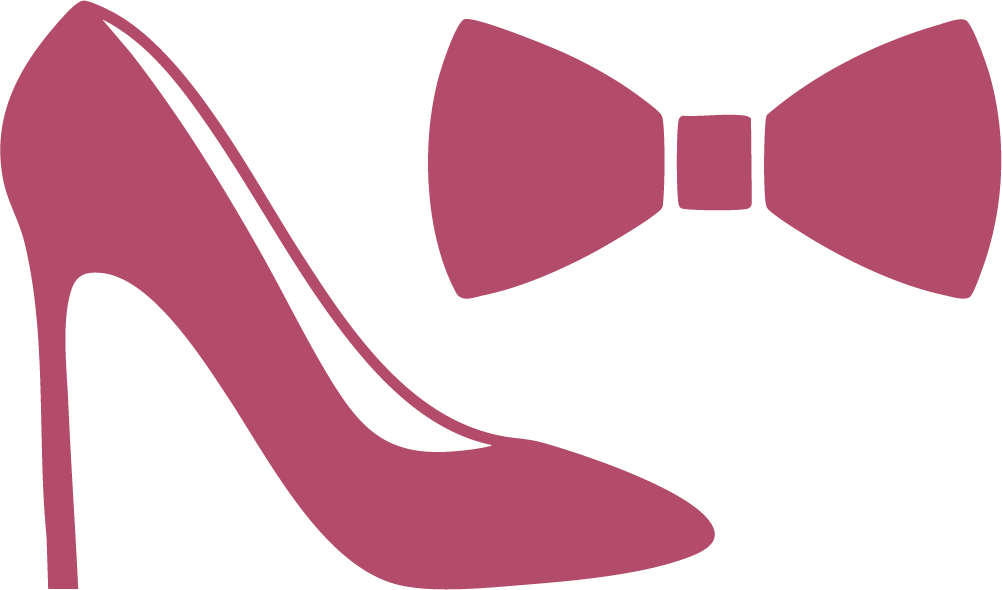
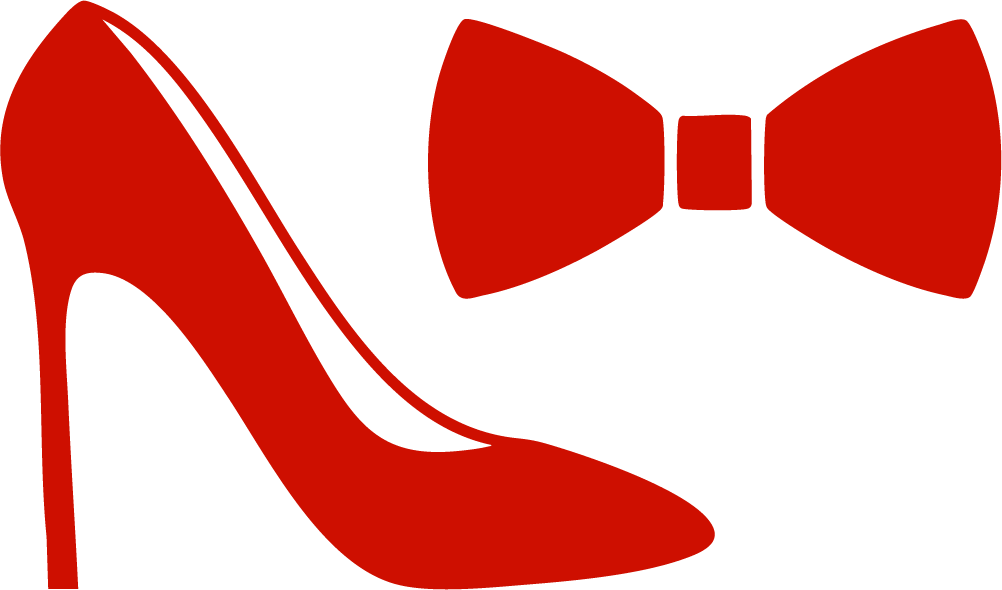
style: update Tailwind configuration and enhance component styling
- Change primary color values in tailwind.config.ts for better contrast
- Update decorative color settings for improved visual appeal
- Refactor border styles in multiple components for consistency
- Adjust spacing and layout in the HomePage and AnimatedName components
- Enhance CountdownTimer and SectionCard components with gradient text effects

diff --git a/src/app/page.tsx b/src/app/page.tsx
@@ -224,7 +224,7 @@ export default function HomePage() {
       />
       
       <div 
-        className="relative z-10 flex flex-col items-center text-center max-w-2xl w-full bg-background/80 dark:bg-neutral-900/80 backdrop-blur-md rounded-xl shadow-2xl my-8 animate-in fade-in slide-in-from-bottom-10 duration-700 bg-[url('/paper-texture1.jpg')] bg-cover bg-center overflow-hidden border-2 border-decorative/20 hover:border-decorative/40 transition-colors duration-300"
+        className="relative z-10 flex flex-col items-center text-center max-w-2xl w-full bg-background/80 dark:bg-neutral-900/80 backdrop-blur-md rounded-xl shadow-2xl my-8 animate-in fade-in slide-in-from-bottom-10 duration-700 bg-[url('/paper-texture1.jpg')] bg-cover bg-center overflow-hidden border-2 border-[transparent] hover:border-[transparent] transition-colors duration-300"
       >
         <Image
           src="/flowers_deco/flowers.png"
@@ -235,11 +235,11 @@ export default function HomePage() {
           data-ai-hint="floral corner decoration"
         />
         
-        <div className="relative z-10 flex flex-col items-center text-center space-y-8 sm:space-y-10 p-4 sm:p-8 mt-[14rem]">
+        <div className="relative z-10 flex flex-col items-center text-center space-y-8 sm:space-y-10 p-4 sm:p-8 mt-[16rem]">
           <AnimatedName 
             firstName="Victoria"
             lastName="Pérez"
-            className="mb-4 sm:mb-6"
+            className="mb-6 sm:mb-8"
           />
 
           <div 
@@ -504,7 +504,7 @@ export default function HomePage() {
                 placeholder="Nombre y Apellido"
                 value={guestName}
                 onChange={(e) => setGuestName(e.target.value)}
-                className="mt-4 mb-3 bg-white/80 border-primary text-center w-full max-w-[280px] placeholder:text-foreground/50 animate-fade-in-up hover:border-decorative focus:border-decorative transition-colors duration-300"
+                className="mt-4 mb-3 bg-white/80 border-primary text-center w-full max-w-[280px] placeholder:text-foreground/50 animate-fade-in-up hover:border-[transparent] focus:border-[transparent] transition-colors duration-300"
                 aria-label="Tu nombre y apellido"
               />
               <Button
@@ -547,7 +547,7 @@ export default function HomePage() {
       {showBackToTop && (
         <Button
           onClick={scrollToTop}
-          className="fixed bottom-8 right-8 z-50 h-12 w-12 rounded-full bg-decorative/80 backdrop-blur-sm p-0 text-primary-foreground shadow-lg transition-transform hover:scale-110 hover:bg-primary"
+          className="fixed bottom-8 right-8 z-50 h-12 w-12 rounded-full bg-gradient-to-r from-decorative-gradientFrom to-decorative-gradientTo backdrop-blur-sm p-0 text-primary-foreground shadow-lg transition-transform hover:scale-110 hover:bg-primary"
           aria-label="Volver al inicio"
         >
           <ArrowUp className="h-6 w-6" />

diff --git a/src/components/event/AnimatedName.tsx b/src/components/event/AnimatedName.tsx
@@ -23,23 +23,24 @@ const AnimatedName: React.FC<AnimatedNameProps> = ({
 
   return (
     <div 
-      className={cn("mb-4 sm:mb-6 text-center", className)}
+      className={cn("mb-4 sm:mb-6 text-center relative w-full overflow-visible", className)}
     >
-      {/* First Name - Victoria */}
-      <p className={cn(
-        "font-great-vibes text-9xl sm:text-9xl text-primary transition-all duration-1500 ease-out",
-        isVisible ? "animate-victoriaSlideIn" : "opacity-0 translate-x-[-100%] scale-90"
-      )}>
-        {firstName}
-      </p>
-      
-      {/* Last Name - Pérez */}
-      <p className={cn(
-        "font-great-vibes text-8xl sm:text-9xl text-secondary transition-all duration-1500 ease-out",
-        isVisible ? "animate-perezSlideIn" : "opacity-0 translate-x-[100%] scale-90"
-      )}>
-        {lastName}
-      </p>
+      <div className="flex flex-col items-center w-full">
+        {/* First Name - Victoria */}
+        <p className={cn(
+          "block w-full text-center font-great-vibes text-9xl sm:text-9xl text-primary transition-all duration-1500 ease-out relative z-0",
+          isVisible ? "animate-victoriaSlideIn" : "opacity-0 translate-x-[-100%] scale-90"
+        )}>
+          {firstName}
+        </p>
+        {/* Last Name - Pérez */}
+        <p className={cn(
+          "block w-full text-center font-great-vibes text-8xl sm:text-9xl bg-gradient-to-r from-decorative-gradientFrom to-decorative-gradientTo text-transparent bg-clip-text transition-all duration-1500 ease-out leading-[1.1] pt-4 pb-2 overflow-visible break-words z-10",
+          isVisible ? "animate-perezSlideIn" : "opacity-0 translate-x-[100%] scale-90"
+        )}>
+          {lastName}
+        </p>
+      </div>
 
       <style jsx>{`
         .animate-victoriaSlideIn {

diff --git a/src/components/event/CountdownTimer.tsx b/src/components/event/CountdownTimer.tsx
@@ -86,10 +86,10 @@ const CountdownTimer: React.FC<CountdownTimerProps> = ({ targetDate }) => {
       {timerComponents.map((component, index) => (
         component.value !== undefined && (
           <span key={index} className="inline-block mx-4 sm:mx-4 transform transition-all hover:scale-110">
-            <span className="text-3xl sm:text-5xl font-headline font-bold text-foreground text-visible">
+            <span className="text-3xl sm:text-5xl font-headline font-bold bg-gradient-to-r from-decorative-gradientFrom to-decorative-gradientTo text-transparent bg-clip-text text-visible">
               {String(component.value).padStart(2, '0')}
             </span>
-            <span className="text-xs sm:text-sm text-primary uppercase tracking-wider font-body text-visible font-bold ml-1">
+            <span className="text-xs sm:text-sm text-foreground uppercase tracking-wider font-body text-visible font-bold ml-1">
               {component.label}
             </span>
           </span>

diff --git a/tailwind.config.ts b/tailwind.config.ts
@@ -1,4 +1,3 @@
-
 import type {Config} from 'tailwindcss';
 
 export default {
@@ -30,8 +29,8 @@ export default {
           foreground: 'hsl(var(--popover-foreground))',
         },
         primary: {
-          DEFAULT: 'hsl(var(--primary))',
-          foreground: 'hsl(var(--primary-foreground))',
+          DEFAULT: '#d60102',
+          foreground: '#fff',
         },
         secondary: {
           DEFAULT: 'hsl(var(--secondary))',
@@ -70,7 +69,11 @@ export default {
           ring: 'hsl(var(--sidebar-ring))',
         },
         'link-secondary': 'hsl(var(--link-secondary))',
-        decorative: 'hsl(var(--decorative))',
+        decorative: {
+          DEFAULT: '#e0b84c',
+          gradientFrom: '#e0b84c',
+          gradientTo: '#b88a2a',
+        },
       },
       borderRadius: {
         lg: 'var(--radius)',

diff --git a/src/components/event/SectionCard.tsx b/src/components/event/SectionCard.tsx
@@ -1,4 +1,3 @@
-
 "use client";
 import type { ReactNode } from 'react';
 import { Card, CardContent, CardHeader, CardTitle } from '@/components/ui/card';
@@ -51,7 +50,7 @@ const SectionCard: React.FC<SectionCardProps> = ({ title, icon, children, locati
                 key={index}
                 onClick={() => handleLocationClick(button.url)}
                 variant="outline"
-                className="bg-link-secondary hover:bg-link-secondary/90 text-primary-foreground border-link-secondary hover:border-link-secondary/90 mx-1"
+                className="bg-primary hover:bg-primary/90 text-primary-foreground border-primary hover:border-primary/90 mx-1"
               >
                 {button.icon || <MapPin className="mr-2 h-4 w-4" />}
                 {button.text}
